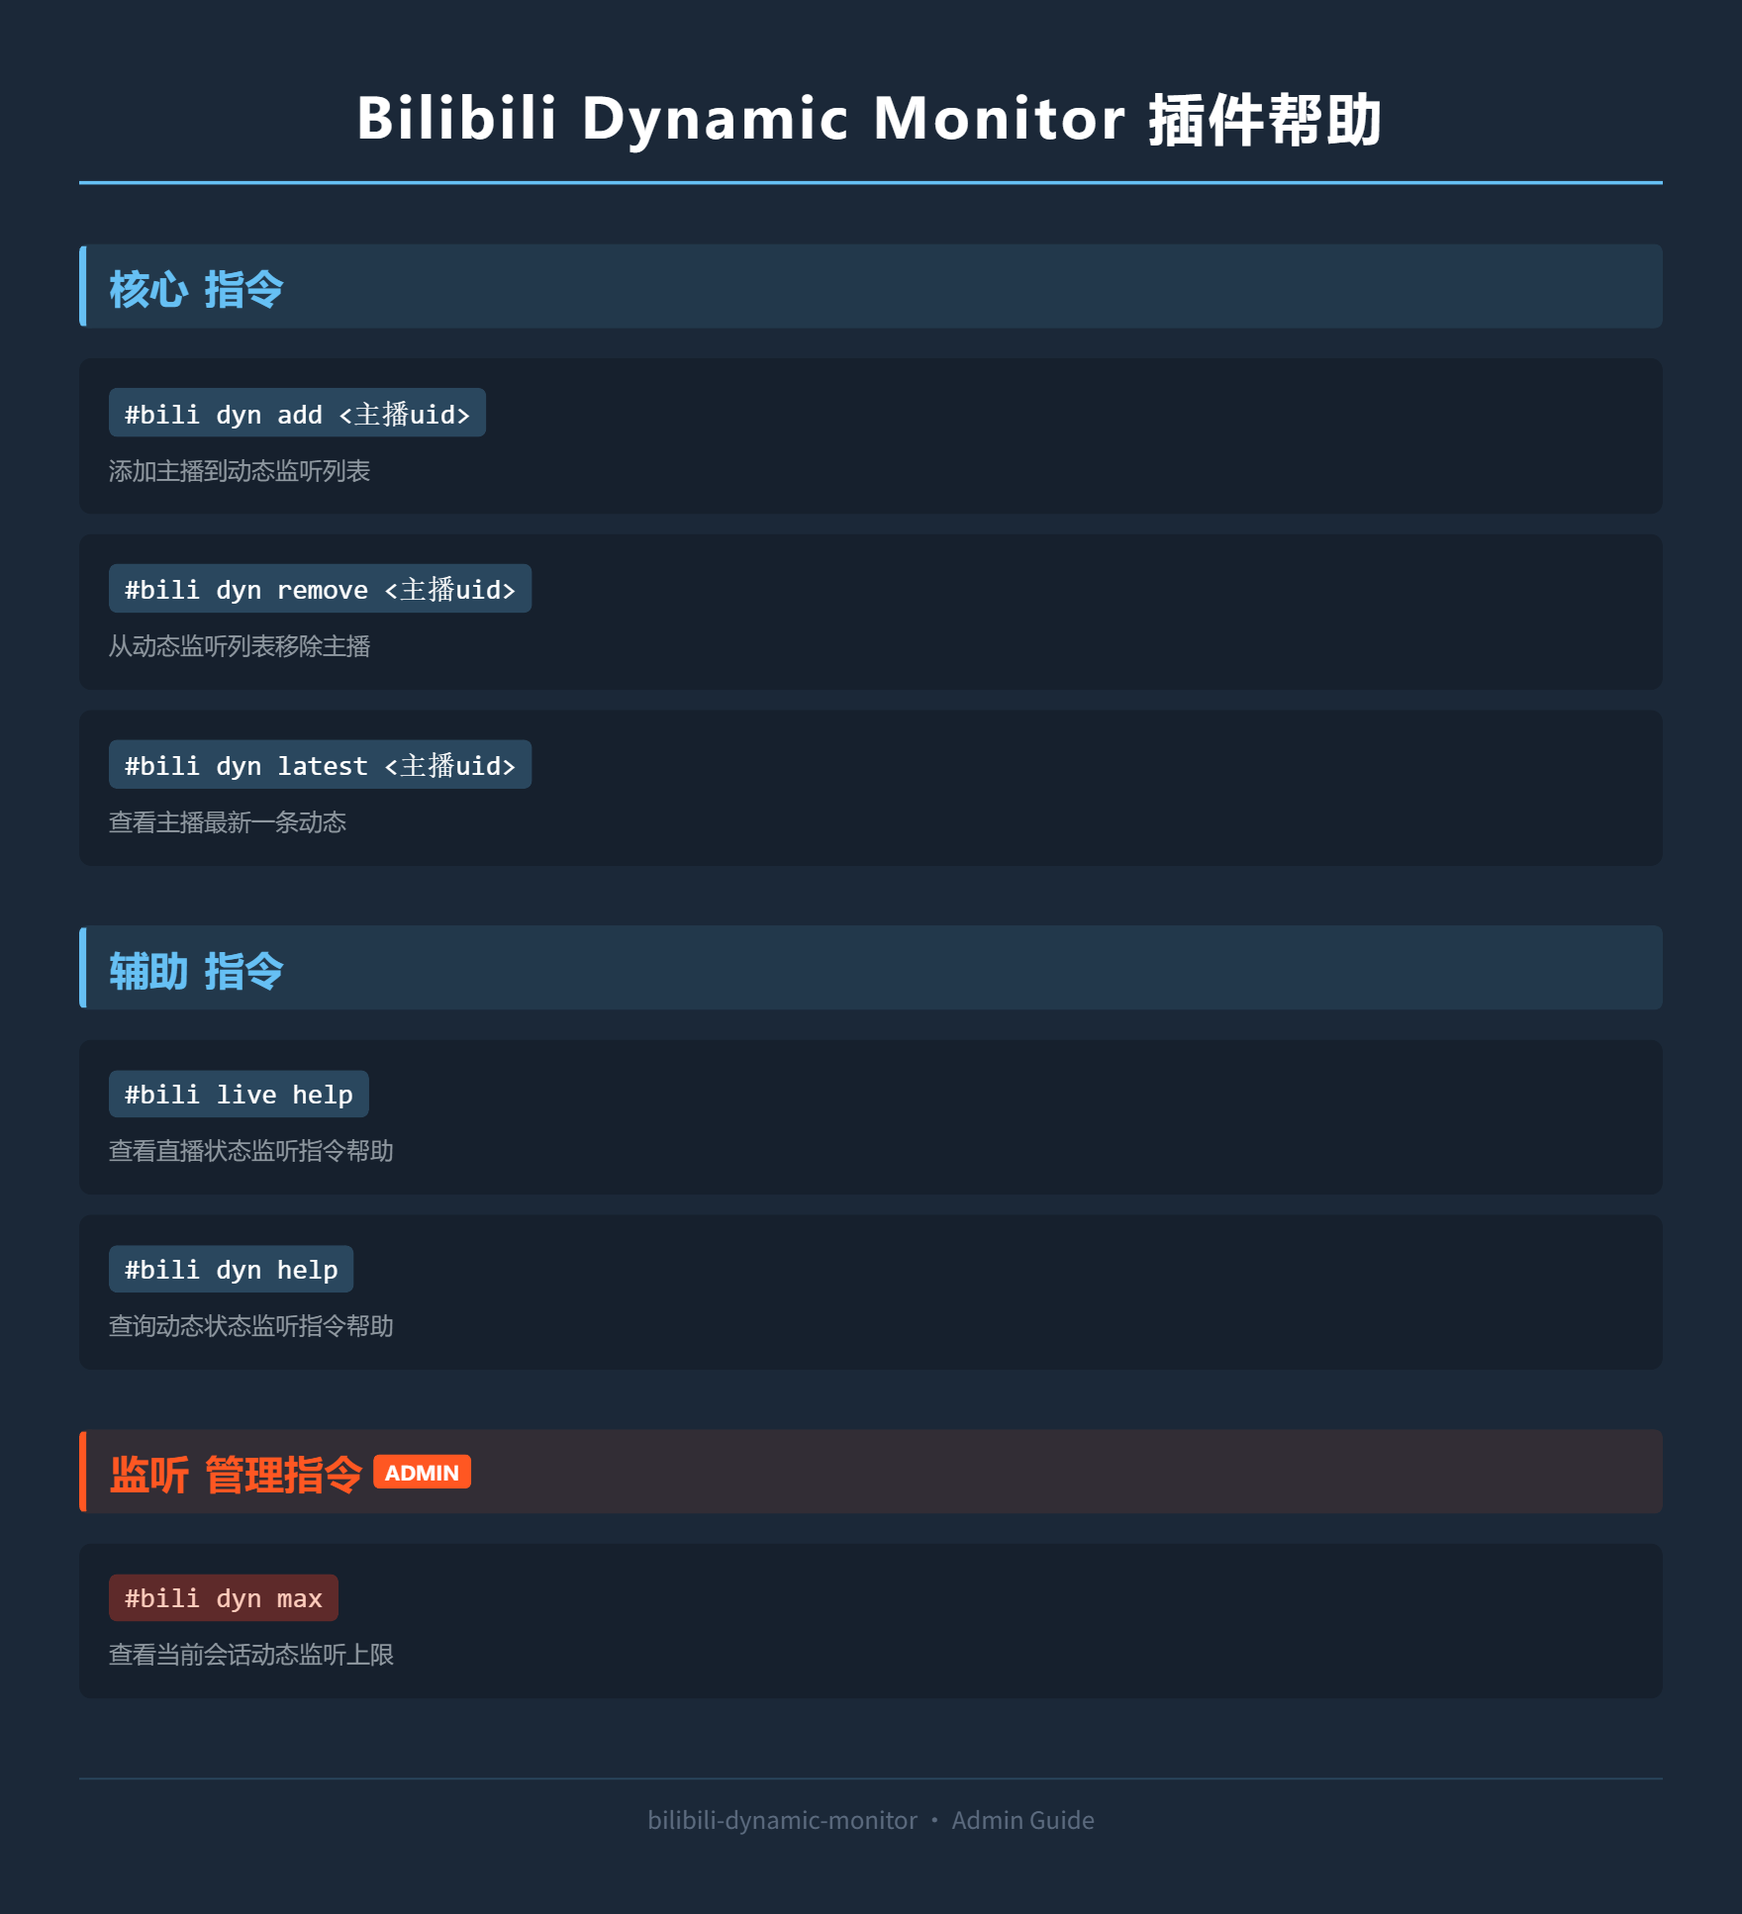
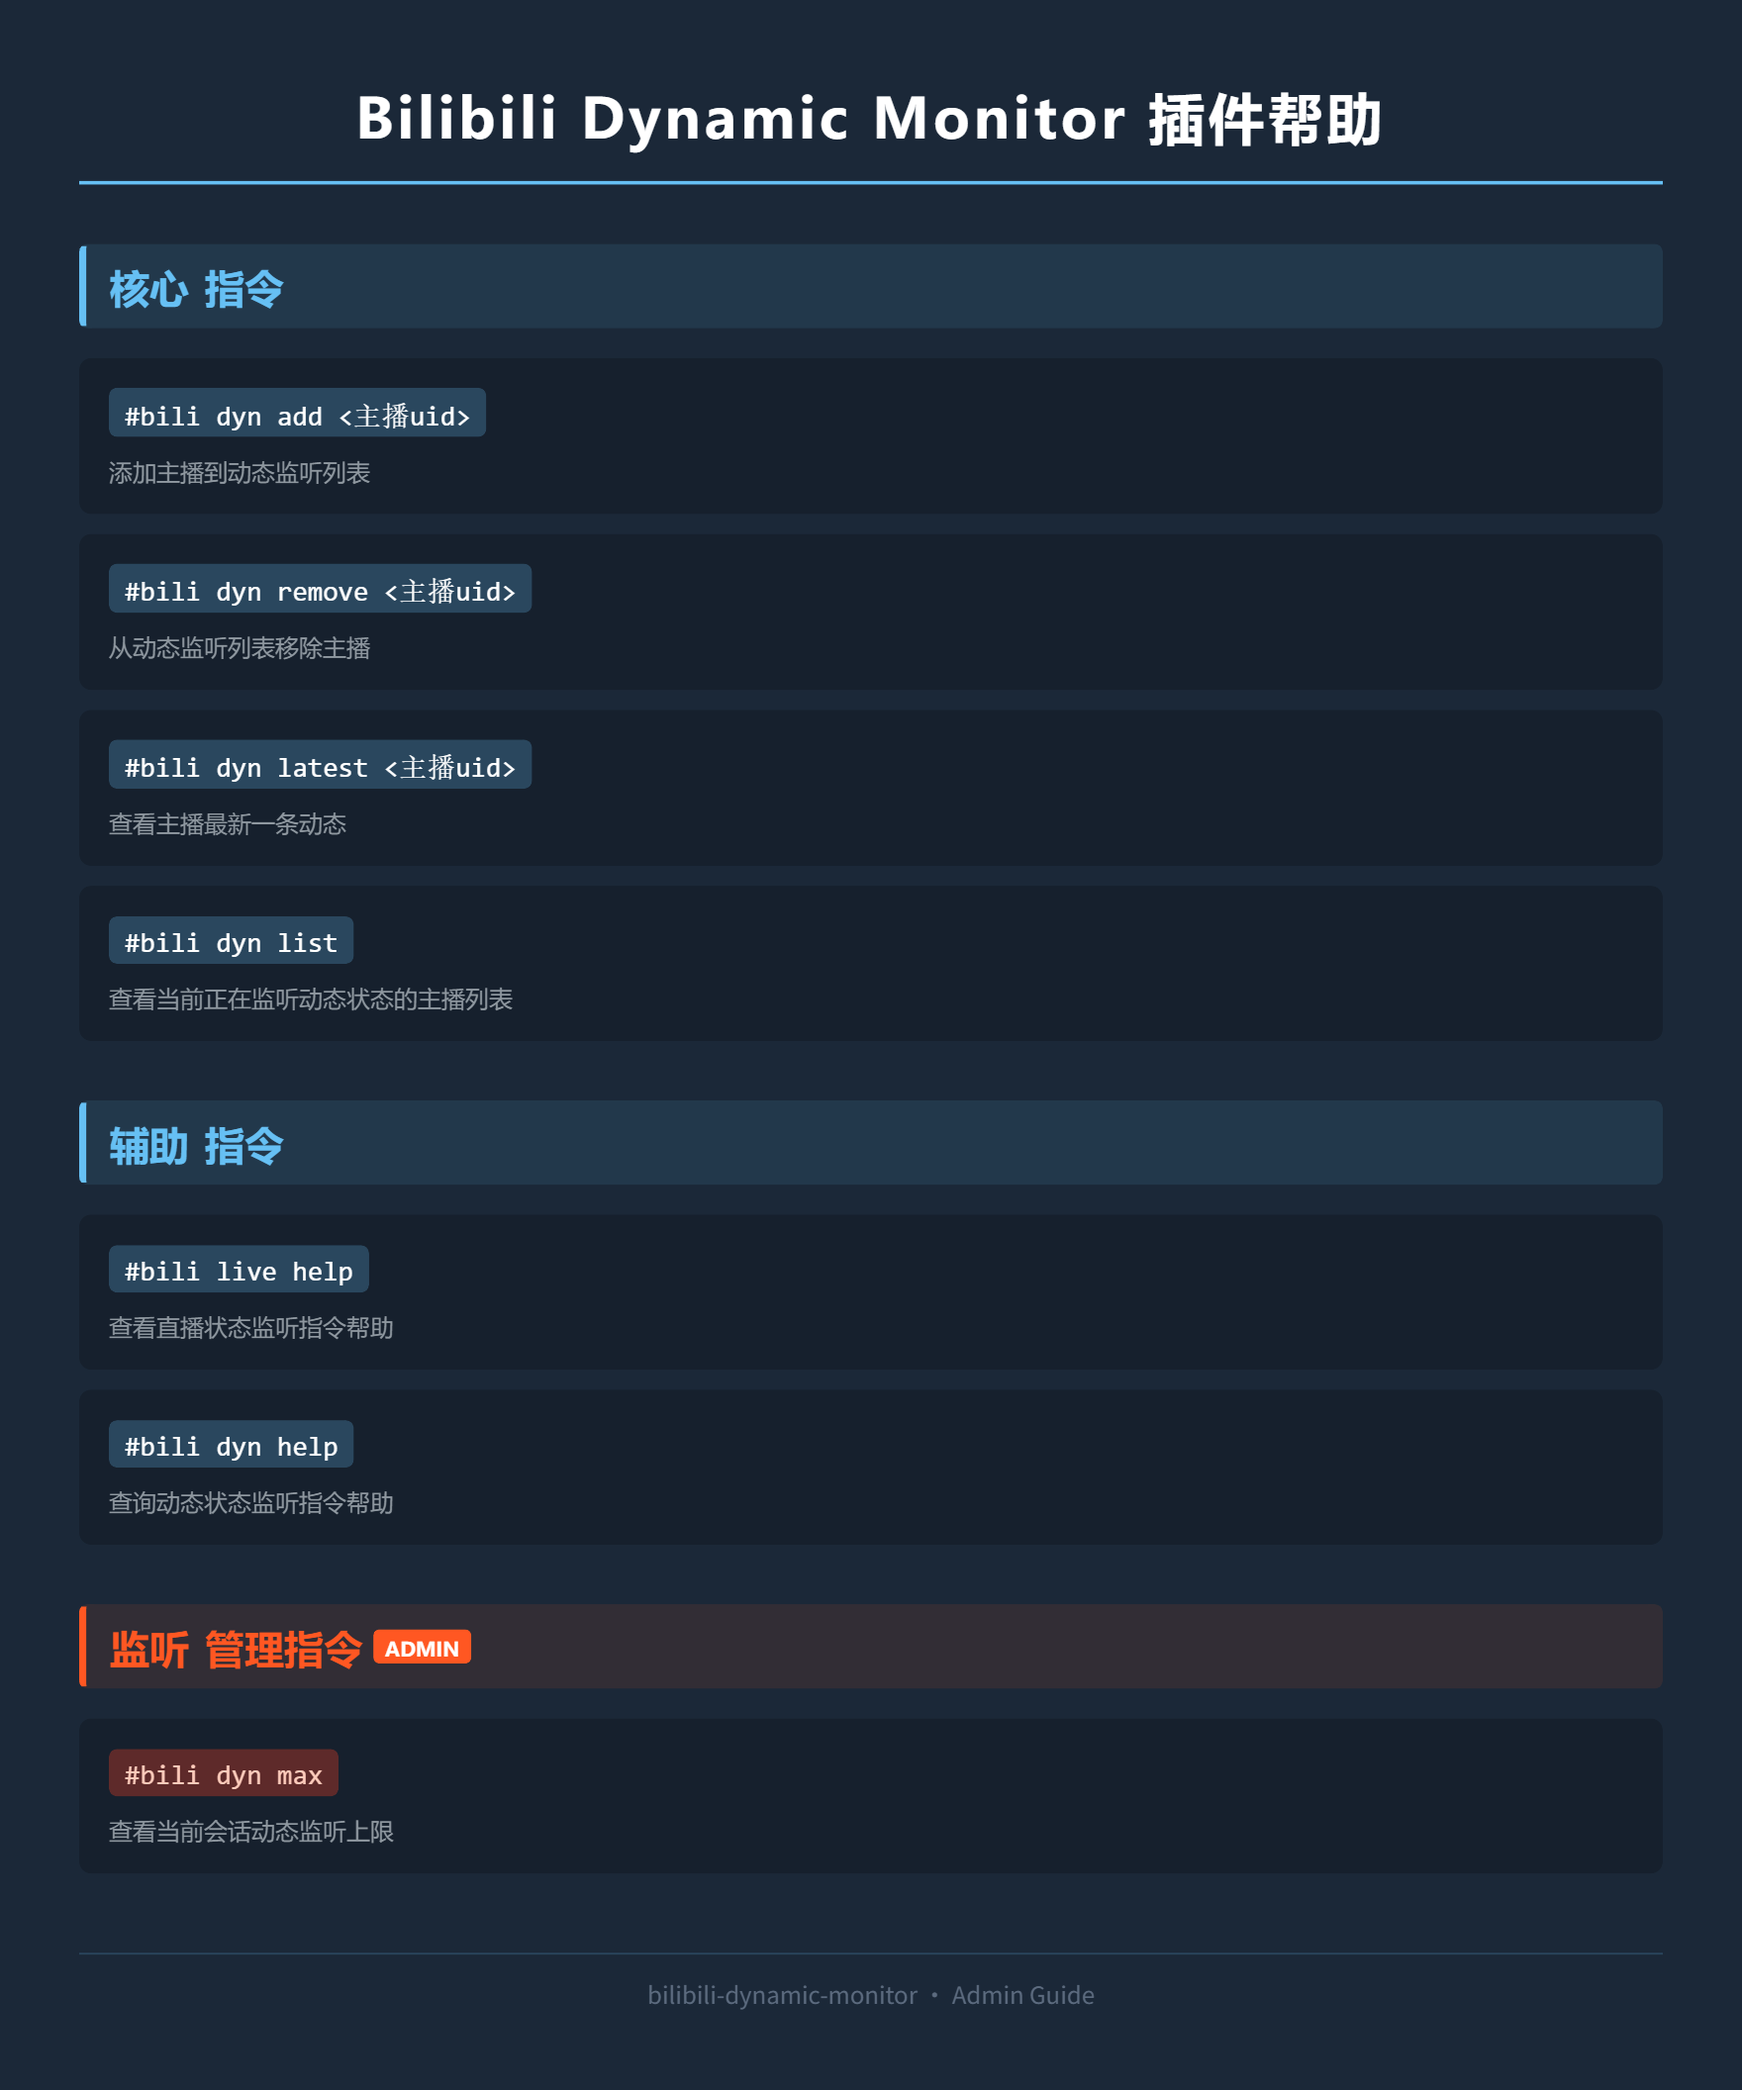
feat(dyn): 新增 #bili dyn list 查看动态监听主播列表

Changed region(s): [[0.0312, 0.1241, 0.9688, 0.8997], [0.1875, 0.031, 0.8125, 0.0931], [0.375, 0.9307, 0.625, 0.9617]]

diff --git a/src/handlers/dyn/list-dyn.handler.ts b/src/handlers/dyn/list-dyn.handler.ts
@@ -1,0 +1,43 @@
+import { NapCatPluginContext } from 'napcat-types/napcat-onebot/network/plugin/types';
+import { OB11Message } from 'napcat-types/napcat-onebot';
+import { biliDynamicStoreService } from '../../services/bili-dynamic-store.service';
+import { sendReplyByToInfo } from '../message.handler';
+
+/**
+ * 查看当前会话正在监听动态的主播列表
+ */
+export const listDynHandler = async (
+    ctx: NapCatPluginContext,
+    event: OB11Message,
+) => {
+    const { message_type, group_id, user_id } = event;
+    const toInfo = {
+        id:
+            message_type === 'group'
+                ? String(group_id)
+                : String(user_id),
+        type: message_type,
+    } as const;
+
+    const monitors = biliDynamicStoreService.list(toInfo);
+    if (monitors.length === 0) {
+        await sendReplyByToInfo(
+            ctx,
+            toInfo,
+            '当前没有正在监听动态的主播',
+        );
+        return;
+    }
+
+    const lines = monitors.map((monitor, index) => {
+        const name = monitor.uname
+            ? `${monitor.uname} (uid: ${monitor.uid})`
+            : `uid: ${monitor.uid}`;
+        return `${index + 1}. ${name}`;
+    });
+    await sendReplyByToInfo(
+        ctx,
+        toInfo,
+        `当前监听动态的主播列表:\n${lines.join('\n')}`,
+    );
+};

diff --git a/src/handlers/dyn/help-dyn.handler.ts b/src/handlers/dyn/help-dyn.handler.ts
@@ -25,6 +25,7 @@ const HELP_TEXT_MAP: Record<HelpVariant, string> = {
 #bili dyn add <主播uid>: 添加主播到动态监听列表
 #bili dyn remove <主播uid>: 从动态监听列表移除主播
 #bili dyn latest <主播uid>: 查看主播最新一条动态
+#bili dyn list: 查看当前监听动态的主播列表
 `,
     admin: `【Bilibili Dynamic Monitor 插件帮助】
 
@@ -32,6 +33,7 @@ const HELP_TEXT_MAP: Record<HelpVariant, string> = {
 #bili dyn add <主播uid>: 添加主播到动态监听列表
 #bili dyn remove <主播uid>: 从动态监听列表移除主播
 #bili dyn latest <主播uid>: 查看主播最新一条动态
+#bili dyn list: 查看当前监听动态的主播列表
 
 监听管理指令 [管理员]:
 #bili dyn max: 查看当前会话动态监听上限
@@ -42,6 +44,7 @@ const HELP_TEXT_MAP: Record<HelpVariant, string> = {
 #bili dyn add <主播uid>: 添加主播到动态监听列表
 #bili dyn remove <主播uid>: 从动态监听列表移除主播
 #bili dyn latest <主播uid>: 查看主播最新一条动态
+#bili dyn list: 查看当前监听动态的主播列表
 
 监听管理指令 [管理员]:
 #bili dyn max: 查看当前会话动态监听上限

diff --git a/src/handlers/instruction.handler.ts b/src/handlers/instruction.handler.ts
@@ -12,6 +12,7 @@ import { maxLiveHandler } from './live/max-live.handler';
 import { addDynHandler } from './dyn/add-dyn.handler';
 import { removeDynHandler } from './dyn/remove-dyn.handler';
 import { latestDynHandler } from './dyn/latest-dyn.handler';
+import { listDynHandler } from './dyn/list-dyn.handler';
 import { maxDynHandler } from './dyn/max-dyn.handler';
 import { helpDynHandler } from './dyn/help-dyn.handler';
 import { loginHandler } from './user/login.handler';
@@ -132,6 +133,10 @@ const instructionSetMapper: Record<
          * 查看主播最新一条动态
          */
         latest: { handler: latestDynHandler },
+        /**
+         * 查看当前监听动态的主播列表
+         */
+        list: { handler: listDynHandler },
         /**
          * 查看动态监听指令帮助
          */
